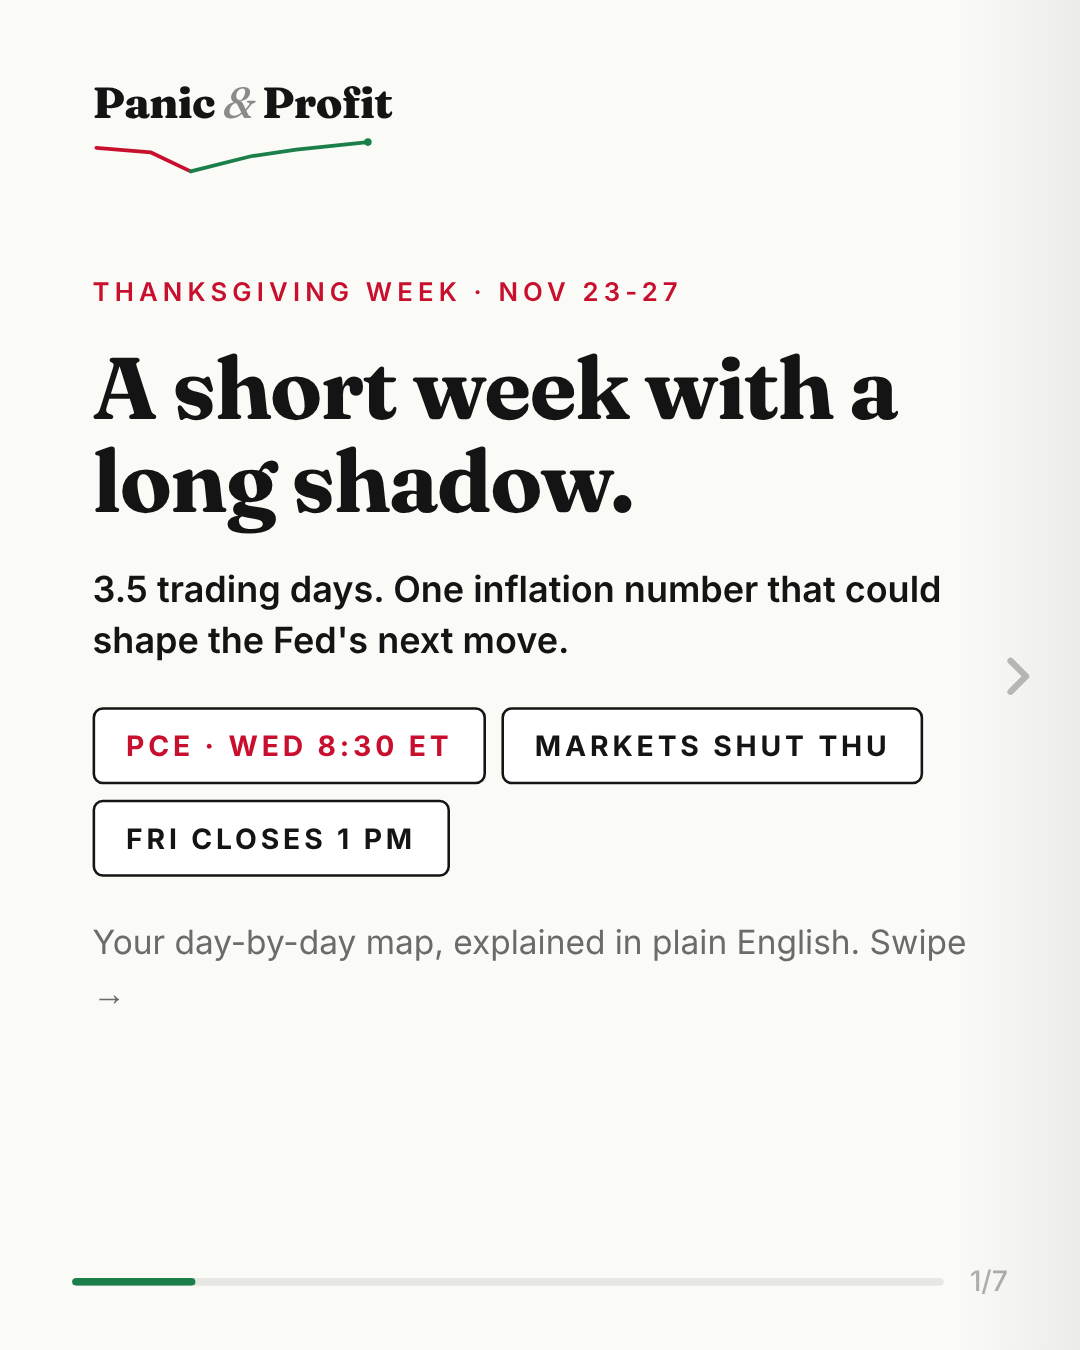
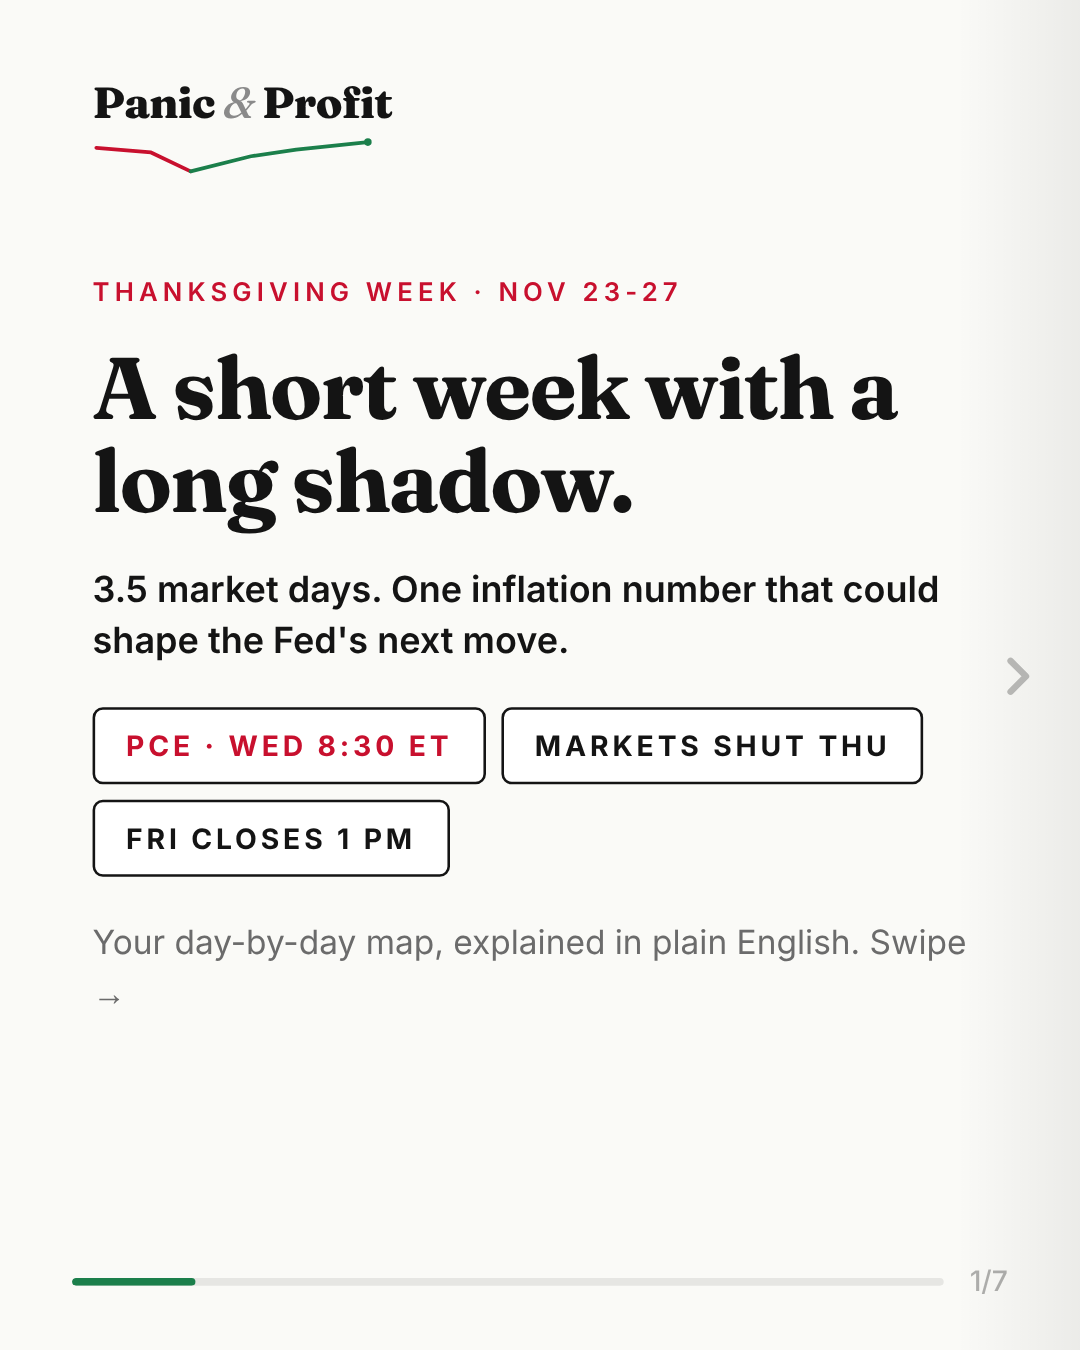
Monday carousel: wording fix
Claude-Session: https://claude.ai/code/session_01HEfkBjtX9jJLAwHVacHrK9

Changed region(s): [[0.3667, 0.4044, 0.8556, 0.4667], [0.1528, 0.4044, 0.3361, 0.4667]]

diff --git a/instagram/panic-and-profit/daily/2026-11-23/carousel.html b/instagram/panic-and-profit/daily/2026-11-23/carousel.html
@@ -26,7 +26,7 @@ body{background:#ECEBE6;font-family:'Inter',sans-serif;display:flex;justify-cont
 <div style="position:absolute;inset:0;padding:0 36px 52px;display:flex;flex-direction:column;justify-content:center;z-index:2;"><div style="position:absolute;top:30px;left:36px;"><div style="display:inline-block;"><div class="serif" style="font-size:17px;font-weight:800;color:#141414;letter-spacing:-0.3px;line-height:1;">Panic <span style="font-style:italic;font-weight:500;color:#8A8A8A;">&amp;</span> Profit</div><svg width="110" height="19" viewBox="0 0 300 42" fill="none" style="display:block;margin-top:4px;"><polyline points="4,10 62,15 104,35" stroke="#C8102E" stroke-width="4" stroke-linecap="round" stroke-linejoin="round"/><polyline points="104,35 168,19 216,12 292,4" stroke="#1B7F4B" stroke-width="4" stroke-linecap="round" stroke-linejoin="round"/><circle cx="292" cy="4" r="4" fill="#1B7F4B"/></svg></div></div>
 <div style="height:30px"></div><span class="sans" style="display:inline-block;font-size:10px;font-weight:600;letter-spacing:2px;color:#C8102E;margin-bottom:14px;">THANKSGIVING WEEK · NOV 23-27</span>
 <h1 class="serif" style="font-size:34px;font-weight:700;line-height:1.06;letter-spacing:-0.6px;color:#141414;">A short week with a long shadow.</h1>
-<p class="sans" style="font-size:14px;color:#141414;font-weight:600;line-height:1.45;margin:14px 0 12px;">3.5 trading days. One inflation number that could shape the Fed's next move.</p>
+<p class="sans" style="font-size:14px;color:#141414;font-weight:600;line-height:1.45;margin:14px 0 12px;">3.5 market days. One inflation number that could shape the Fed's next move.</p>
 <div style="display:flex;flex-wrap:wrap;gap:0;margin:4px 0 10px;"><span class="sans" style="display:inline-block;font-size:11px;font-weight:700;letter-spacing:1.5px;padding:7px 12px;border:1.5px solid #141414;border-radius:4px;background:#fff;color:#C8102E;margin:0 6px 6px 0;">PCE · WED 8:30 ET</span><span class="sans" style="display:inline-block;font-size:11px;font-weight:700;letter-spacing:1.5px;padding:7px 12px;border:1.5px solid #141414;border-radius:4px;background:#fff;color:#141414;margin:0 6px 6px 0;">MARKETS SHUT THU</span><span class="sans" style="display:inline-block;font-size:11px;font-weight:700;letter-spacing:1.5px;padding:7px 12px;border:1.5px solid #141414;border-radius:4px;background:#fff;color:#141414;margin:0 6px 6px 0;">FRI CLOSES 1 PM</span></div>
 <p class="sans" style="font-size:13px;color:#6B6B6B;line-height:1.5;">Your day-by-day map, explained in plain English. Swipe →</p></div>
 <div style="position:absolute;right:0;top:0;bottom:0;width:48px;z-index:9;display:flex;align-items:center;justify-content:center;background:linear-gradient(to right,transparent,rgba(0,0,0,0.06));"><svg width="24" height="24" viewBox="0 0 24 24" fill="none"><path d="M9 6l6 6-6 6" stroke="rgba(0,0,0,0.25)" stroke-width="2.5" stroke-linecap="round" stroke-linejoin="round"/></svg></div><div style="position:absolute;bottom:0;left:0;right:0;padding:16px 28px 20px;z-index:10;display:flex;align-items:center;gap:10px;"><div style="flex:1;height:3px;background:rgba(0,0,0,0.08);border-radius:2px;overflow:hidden;"><div style="height:100%;width:14.29%;background:#1B7F4B;border-radius:2px;"></div></div><span class="sans" style="font-size:11px;color:rgba(0,0,0,0.3);font-weight:500;">1/7</span></div></div><div class="slide" style="background:#FAFAF7;">

diff --git a/instagram/panic-and-profit/daily/2026-11-23/build.py b/instagram/panic-and-profit/daily/2026-11-23/build.py
@@ -42,7 +42,7 @@ def chip(t,c): return f'<span class="sans" style="display:inline-block;font-size
 b1=f"""<div style="position:absolute;top:30px;left:36px;">{logo(17,line_w=110,tagline=False)}</div>
 <div style="height:30px"></div>{tag("THANKSGIVING WEEK · NOV 23-27", RED)}
 <h1 class="serif" style="font-size:34px;font-weight:700;line-height:1.06;letter-spacing:-0.6px;color:{INK};">A short week with a long shadow.</h1>
-<p class="sans" style="font-size:14px;color:{INK};font-weight:600;line-height:1.45;margin:14px 0 12px;">3.5 trading days. One inflation number that could shape the Fed's next move.</p>
+<p class="sans" style="font-size:14px;color:{INK};font-weight:600;line-height:1.45;margin:14px 0 12px;">3.5 market days. One inflation number that could shape the Fed's next move.</p>
 <div style="display:flex;flex-wrap:wrap;gap:0;margin:4px 0 10px;">{chip("PCE · WED 8:30 ET",RED)}{chip("MARKETS SHUT THU",INK)}{chip("FRI CLOSES 1 PM",INK)}</div>
 <p class="sans" style="font-size:13px;color:#6B6B6B;line-height:1.5;">Your day-by-day map, explained in plain English. Swipe →</p>"""
 slides.append(slide(0,LBG,b1,True,justify="center"))
